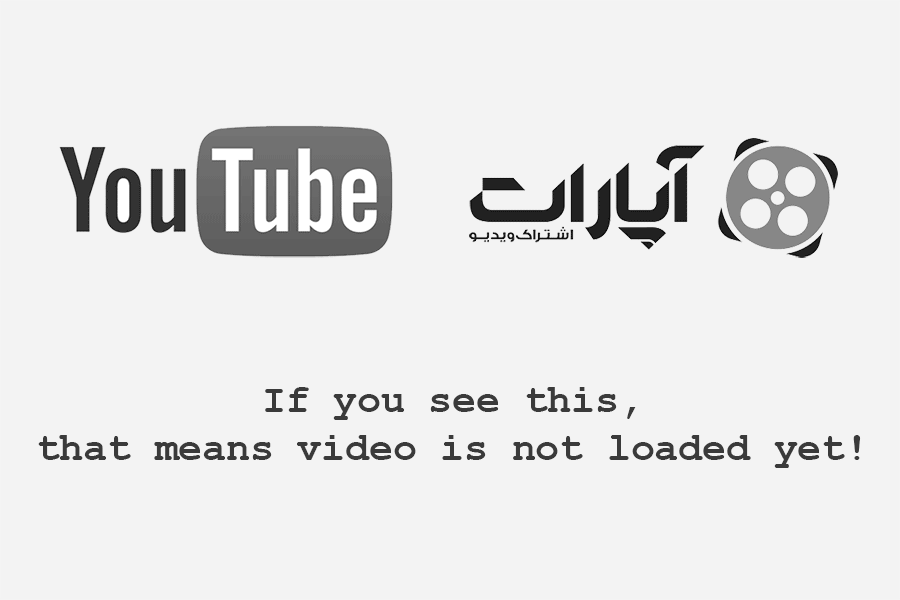
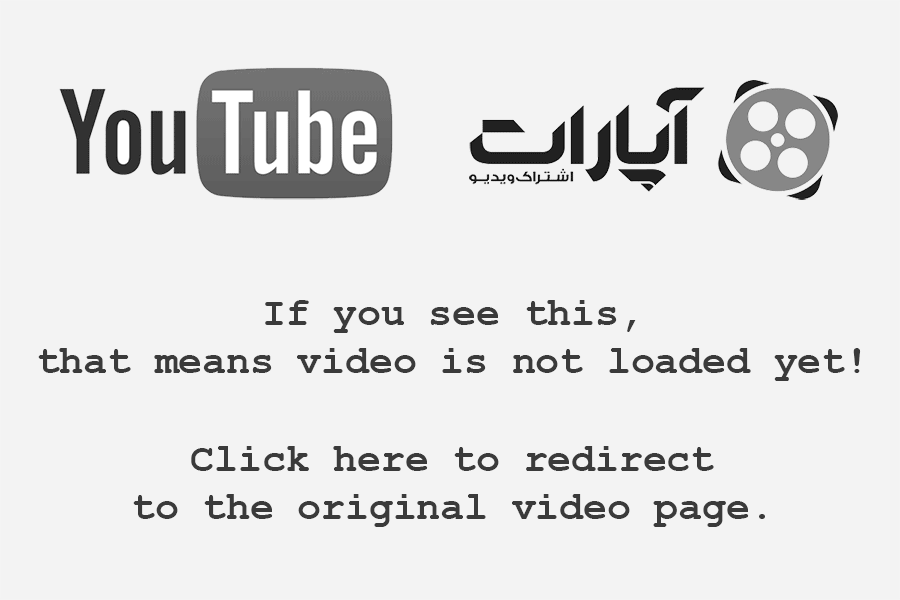
Add link not-loaded video background

diff --git a/mari juana/2016/03/11/1st-post/index.html b/mari juana/2016/03/11/1st-post/index.html
@@ -66,11 +66,11 @@
         <div class="post-content">
             <p>You’ll find this post in your <code class="highlighter-rouge">_posts</code> directory. Go ahead and edit it and re-build the site to see your changes. You can rebuild the site in many different ways, but the most common way is to run <code class="highlighter-rouge">jekyll serve</code>, which launches a web server and auto-regenerates your site when a file is updated.</p>
 
-<div class="video-container"><style>.embed-container { position: relative; padding-bottom: 56.25%; height: 0; overflow: hidden; max-width: 100%; } .embed-container iframe, .embed-container object, .embed-container embed { position: absolute; top: 0; left: 0; width: 100%; height: 100%; }</style><div class="embed-container"><iframe src="http://www.youtube.com/embed/xIBiJ_SzJTA" frameborder="0" allowfullscreen=""></iframe></div></div>
+<p><a href="https://www.youtube.com/watch?v=xIBiJ_SzJTA">&lt;div class='video-container'&gt;<style>.embed-container { position: relative; padding-bottom: 56.25%; height: 0; overflow: hidden; max-width: 100%; } .embed-container iframe, .embed-container object, .embed-container embed { position: absolute; top: 0; left: 0; width: 100%; height: 100%; }</style>&lt;div class='embed-container'&gt;&lt;iframe src='http://www.youtube.com/embed/xIBiJ_SzJTA' frameborder='0' allowfullscreen&gt;&lt;/iframe&gt;&lt;/div&gt;&lt;/div&gt;<a></a></a></p>
 
 <p>To add new posts, simply add a file in the <code class="highlighter-rouge">_posts</code> directory that follows the convention <code class="highlighter-rouge">YYYY-MM-DD-name-of-post.ext</code> and includes the necessary front matter. Take a look at the source for this post to get an idea about how it works.</p>
 
-<div class="video-container"><style>.h_iframe-aparat_embed_frame{position:relative;} .h_iframe-aparat_embed_frame .ratio {display:block;width:100%;height:auto;} .h_iframe-aparat_embed_frame iframe {position:absolute;top:0;left:0;width:100%; height:100%;}</style><div class="h_iframe-aparat_embed_frame"> <span style="display: block;padding-top: 57%"></span><iframe src="https://www.aparat.com/video/video/embed/videohash/DY8HB/vt/frame" allowfullscreen="true" webkitallowfullscreen="true" mozallowfullscreen="true"></iframe></div></div>
+<p><a href="http://www.aparat.com/v/DY8HB">&lt;div class="video-container"&gt;<style>.h_iframe-aparat_embed_frame{position:relative;} .h_iframe-aparat_embed_frame .ratio {display:block;width:100%;height:auto;} .h_iframe-aparat_embed_frame iframe {position:absolute;top:0;left:0;width:100%; height:100%;}</style>&lt;div class="h_iframe-aparat_embed_frame"&gt; <span style="display: block;padding-top: 57%"></span>&lt;iframe src="https://www.aparat.com/video/video/embed/videohash/DY8HB/vt/frame" allowFullScreen="true" webkitallowfullscreen="true" mozallowfullscreen="true" &gt;&lt;/iframe&gt;&lt;/div&gt;&lt;/div&gt;</a></p>
 
 <p>Jekyll also offers powerful support for code snippets:</p>
 
